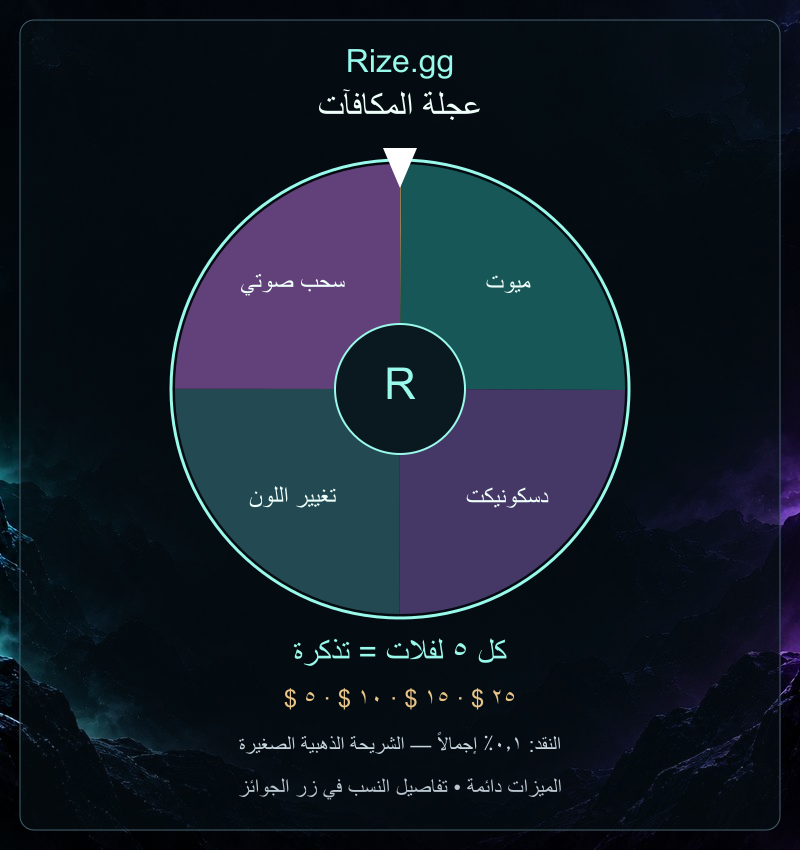
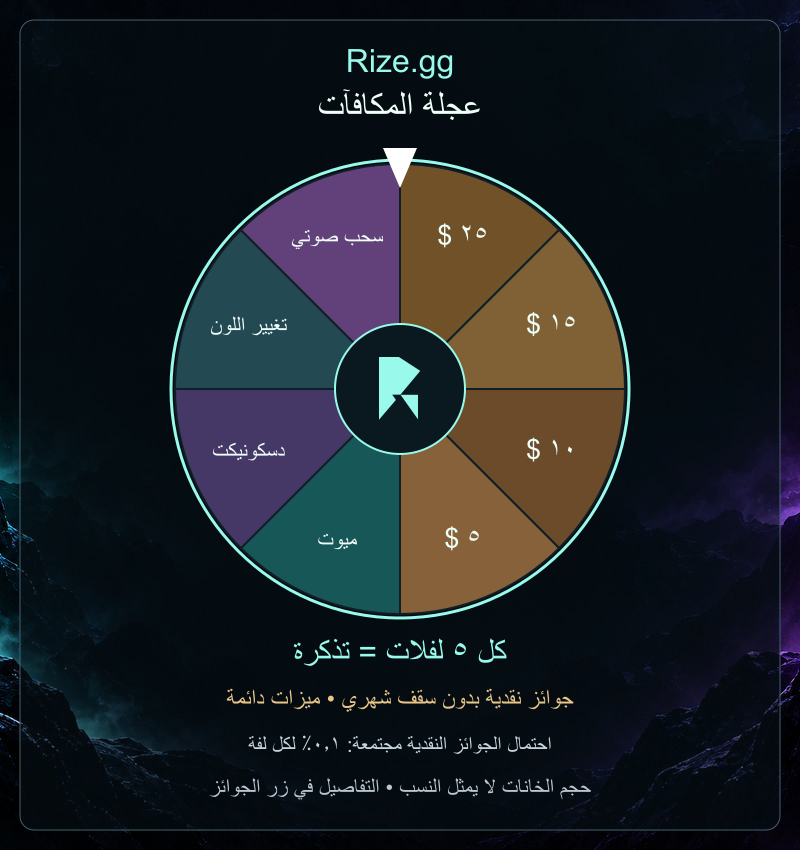
Show all eight prizes in branded Arabic wheel

diff --git a/README.md b/README.md
@@ -34,7 +34,7 @@ Node.js 24.17 أو أحدث. انسخ `.env.example` إلى `.env` واملأ ا
 | ميزة تغيير اللون | ٢٤٫٩٨٪ |
 | ميزة السحب الصوتي | ٢٤٫٩٨٪ |
 
-إجمالي النقد ٠٫١٪؛ لا يضمن الفوز بعد عدد محدد من اللفات. اختيار النتيجة عبر مولّد عشوائي آمن، ثم عرض GIF يطابق النتيجة. أحجام الشرائح تعكس النسب، لذا شرائح النقد صغيرة جدًا.
+إجمالي النقد ٠٫١٪؛ لا يضمن الفوز بعد عدد محدد من اللفات. اختيار النتيجة عبر مولّد عشوائي آمن، ثم عرض GIF يطابق النتيجة. الخانات متساوية لتظهر كل الجوائز بوضوح؛ حجم الخانة لا يمثل نسبة الفوز. النسب الفعلية موضّحة في زر الجوائز.
 
 الجوائز النقدية متاحة دائمًا بدون سقف شهري، ولا تتحول إلى ميزة أخرى مهما بلغ إجمالي الجوائز. تبقى المطالبات محفوظة للاستلام من الإدارة، ونسب الفوز المذكورة ثابتة.
 
